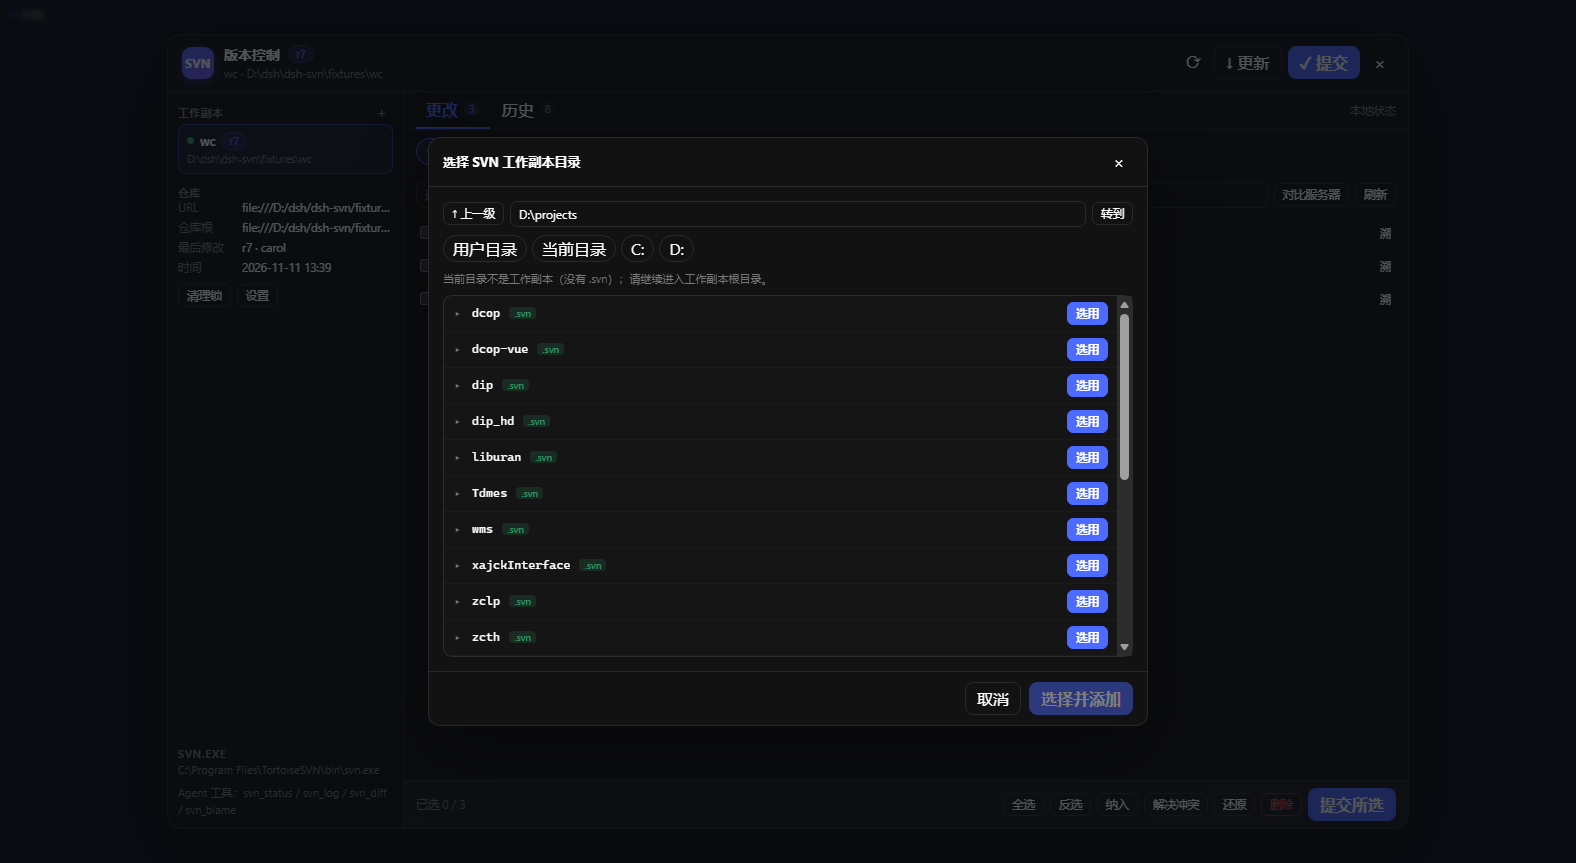
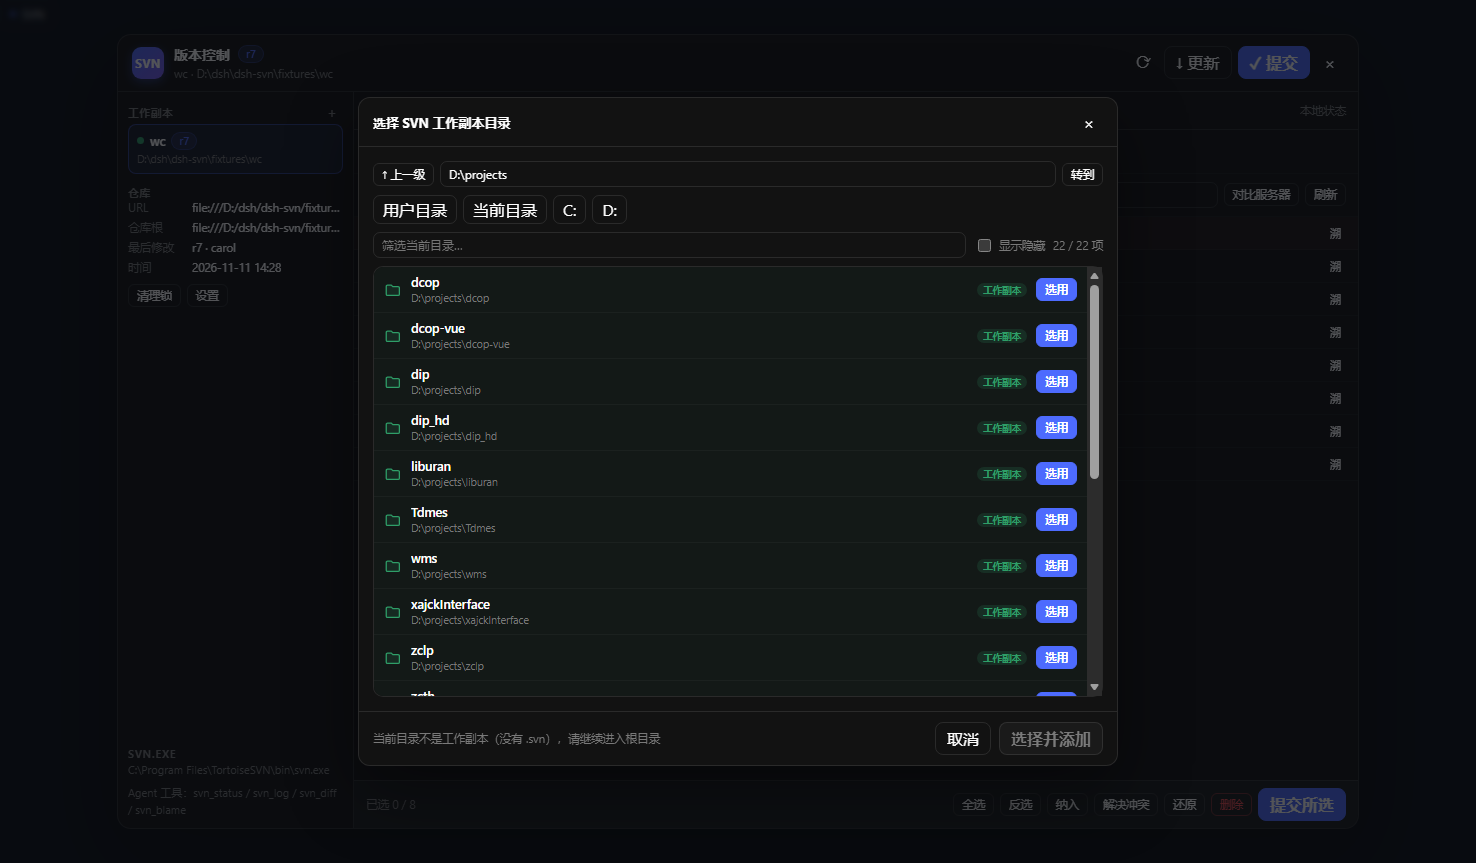
fix: polish directory picker layout
Add folder icons, search filter, hidden-folder toggle, fixed list height, clearer WC badges and footer status, and a proper disabled primary action.

diff --git a/client/client.js b/client/client.js
@@ -68,6 +68,7 @@ window.__ModuleLoader__.load({
 .svn-btn:disabled { opacity: .45; cursor: default; }
 .svn-btn.primary { background: var(--svn-accent); border-color: var(--svn-accent); color: #fff; font-weight: 600; }
 .svn-btn.primary:hover:not(:disabled) { background: #3f5bea; }
+.svn-btn.primary:disabled { background: var(--svn-soft); border-color: var(--svn-line); color: var(--svn-muted); opacity: 1; }
 .svn-btn.danger { color: #e5484d; border-color: rgba(229,72,77,.4); }
 .svn-btn.danger:hover:not(:disabled) { background: rgba(229,72,77,.12); }
 .svn-btn.small { padding: 3px 8px; font-size: 11.5px; border-radius: 6px; }
@@ -204,19 +205,30 @@ window.__ModuleLoader__.load({
 .svn-choice span { font-size: 11px; color: var(--svn-muted); }
 .svn-candidate { display: flex; align-items: center; gap: 8px; padding: 6px 8px; border: 1px solid var(--svn-soft); border-radius: 8px; }
 .svn-candidate .svn-path { font-size: 11px; }
-.svn-picker { display: flex; flex-direction: column; gap: 8px; min-height: 0; }
+.svn-picker { display: flex; flex-direction: column; gap: 8px; height: min(62vh, 540px); min-height: 0; }
 .svn-picker-path { display: flex; gap: 6px; align-items: center; }
-.svn-picker-roots { display: flex; gap: 5px; flex-wrap: wrap; }
-.svn-picker-list { border: 1px solid var(--svn-line); border-radius: 9px; max-height: 42vh; overflow: auto; background: rgba(127,127,127,.03); }
-.svn-picker-row { display: flex; align-items: center; gap: 7px; padding: 6px 9px; border-bottom: 1px solid var(--svn-soft); cursor: pointer; min-width: 0; }
+.svn-picker-roots { display: flex; gap: 6px; flex-wrap: wrap; }
+.svn-picker-root { display: inline-flex; align-items: center; gap: 5px; border: 1px solid var(--svn-line); background: transparent; border-radius: 7px; padding: 3px 9px; font-size: 11.5px; color: var(--svn-muted); cursor: pointer; }
+.svn-picker-root:hover { background: var(--svn-hover); color: CanvasText; }
+.svn-picker-tools { display: flex; gap: 8px; align-items: center; }
+.svn-picker-filter { flex: 1; min-width: 0; }
+.svn-picker-toggle { display: inline-flex; align-items: center; gap: 5px; font-size: 11.5px; color: var(--svn-muted); white-space: nowrap; cursor: pointer; user-select: none; }
+.svn-picker-toggle input { accent-color: var(--svn-accent); }
+.svn-picker-list { flex: 1; min-height: 0; overflow: auto; border: 1px solid var(--svn-line); border-radius: 10px; background: Canvas; }
+.svn-picker-row { display: flex; align-items: center; gap: 9px; padding: 7px 10px; border-bottom: 1px solid var(--svn-soft); cursor: pointer; min-width: 0; }
 .svn-picker-row:last-child { border-bottom: none; }
 .svn-picker-row:hover { background: var(--svn-hover); }
-.svn-picker-icon { color: var(--svn-muted); font-size: 11px; width: 12px; flex: none; }
-.svn-picker-row .svn-path { flex: 0 1 auto; font-size: 12px; color: CanvasText; }
-.svn-picker-wc { font-size: 9.5px; padding: 0 5px; border-radius: 4px; background: rgba(48,164,108,.16); color: #2f9e68; flex: none; font-weight: 600; margin-left: 2px; }
-.svn-picker-spacer { flex: 1; }
-.svn-picker-empty { padding: 24px 10px; text-align: center; color: var(--svn-muted); font-size: 12px; }
-.svn-picker-rootpath { color: var(--svn-muted); font-size: 11px; margin-left: 8px; overflow: hidden; text-overflow: ellipsis; white-space: nowrap; }
+.svn-picker-row.is-wc { background: rgba(48,164,108,.05); }
+.svn-folder-glyph { flex: none; }
+.svn-picker-main { flex: 1; min-width: 0; display: flex; flex-direction: column; gap: 1px; }
+.svn-picker-name { font-size: 12.5px; font-weight: 550; color: CanvasText; white-space: nowrap; overflow: hidden; text-overflow: ellipsis; }
+.svn-picker-sub { font-size: 10.5px; color: var(--svn-muted); white-space: nowrap; overflow: hidden; text-overflow: ellipsis; }
+.svn-picker-wc { font-size: 9.5px; padding: 1px 6px; border-radius: 999px; background: rgba(48,164,108,.16); color: #2f9e68; font-weight: 600; flex: none; }
+.svn-picker-chevron { color: var(--svn-muted); font-size: 15px; line-height: 1; flex: none; opacity: .7; }
+.svn-picker-empty { padding: 36px 10px; text-align: center; color: var(--svn-muted); font-size: 12px; }
+.svn-picker-status { font-size: 11.5px; color: var(--svn-muted); }
+.svn-picker-status.ok { color: #2f9e68; }
+.svn-picker-foot { display: flex; align-items: center; gap: 8px; width: 100%; }
 .svn-modal-head .svn-icon { background: transparent !important; border: none; }
 .svn-hbtn { display: inline-flex; align-items: center; gap: 6px; height: 26px; padding: 0 9px; border-radius: 7px; border: 1px solid var(--svn-line); background: transparent; cursor: pointer; font-size: 11.5px; color: inherit; }
 .svn-hbtn:hover { background: var(--svn-hover); }
@@ -1549,12 +1561,33 @@ window.__ModuleLoader__.load({
       )
     }
 
+    function FolderGlyph(props) {
+      const color = props.wc ? '#2f9e68' : '#d9a441'
+      return h('svg', {
+        className: 'svn-folder-glyph',
+        width: 18,
+        height: 18,
+        viewBox: '0 0 24 24',
+        fill: 'none',
+        stroke: color,
+        strokeWidth: 1.7,
+        strokeLinejoin: 'round',
+      },
+        h('path', {
+          d: 'M3 7.2A1.7 1.7 0 0 1 4.7 5.5h5.1l1.9 2h7.1A1.7 1.7 0 0 1 20.5 9.2v8.3a1.7 1.7 0 0 1-1.7 1.7H4.7A1.7 1.7 0 0 1 3 17.5V7.2Z',
+          fill: props.wc ? 'rgba(48,164,108,.13)' : 'rgba(217,164,65,.13)',
+        }),
+      )
+    }
+
     function DirectoryPicker(props) {
       const [current, setCurrent] = useState(props.initial || '')
       const [data, setData] = useState(null)
       const [loading, setLoading] = useState(false)
       const [error, setError] = useState('')
       const [jump, setJump] = useState(props.initial || '')
+      const [filter, setFilter] = useState('')
+      const [showHidden, setShowHidden] = useState(false)
       const seq = useRef(0)
 
       const load = useCallback(async (target) => {
@@ -1568,6 +1601,7 @@ window.__ModuleLoader__.load({
           setData(result)
           setCurrent(result.current || '')
           setJump(result.current || '')
+          setFilter('')
           if (result.current) writeStorage(LAST_DIR_STORAGE, result.current)
         } catch (err) {
           if (seq.current === id) setError(String((err && err.message) || err))
@@ -1578,14 +1612,51 @@ window.__ModuleLoader__.load({
 
       useEffect(() => { load(props.initial || readStorage(LAST_DIR_STORAGE) || '') }, [load, props.initial])
 
+      const roots = (data && data.roots) || []
+      const entries = (data && data.entries) || []
+      const keyword = filter.trim().toLowerCase()
+      const visible = entries.filter((entry) => {
+        if (!showHidden && entry.name.startsWith('.')) return false
+        if (keyword && !entry.name.toLowerCase().includes(keyword)) return false
+        return true
+      })
       const canPick = !!(data && data.current)
       const isWc = !!(data && data.isWc)
 
+      const row = (item, asRoot) => h('div', {
+        key: (asRoot ? 'root:' : 'dir:') + item.path,
+        className: 'svn-picker-row' + (item.isWc ? ' is-wc' : ''),
+        title: item.path,
+        onClick: () => load(item.path),
+      },
+        h(FolderGlyph, { wc: !!item.isWc }),
+        h('div', { className: 'svn-picker-main' },
+          h('div', { className: 'svn-picker-name' }, item.name),
+          asRoot || item.isWc ? h('div', { className: 'svn-picker-sub' }, item.path) : null,
+        ),
+        item.isWc ? h('span', { className: 'svn-picker-wc' }, '工作副本') : null,
+        item.isWc
+          ? h('button', {
+              type: 'button',
+              className: 'svn-btn small primary',
+              onClick: (event) => { event.stopPropagation(); props.onPick(item.path, true) },
+            }, '选用')
+          : h('span', { className: 'svn-picker-chevron' }, '›'),
+      )
+
+      const status = !canPick
+        ? '请选择一个磁盘或常用目录'
+        : isWc
+          ? '✓ 当前目录是工作副本，可直接添加'
+          : '当前目录不是工作副本（没有 .svn），请继续进入根目录'
+
       return h(Modal, {
         title: '选择 SVN 工作副本目录',
-        width: 720,
+        width: 760,
         onClose: props.onClose,
-        footer: h(React.Fragment, null,
+        footer: h('div', { className: 'svn-picker-foot' },
+          h('span', { className: 'svn-picker-status' + (isWc ? ' ok' : '') }, status),
+          h('div', { className: 'svn-footer-gap' }),
           h('button', { type: 'button', className: 'svn-btn', onClick: props.onClose }, '取消'),
           h('button', {
             type: 'button',
@@ -1613,20 +1684,30 @@ window.__ModuleLoader__.load({
             }),
             h('button', { type: 'button', className: 'svn-btn small', onClick: () => load(jump.trim()), disabled: loading }, '转到'),
           ),
-          data && data.roots && data.roots.length ? h('div', { className: 'svn-picker-roots' },
-            data.roots.map((root) => h('button', {
+          roots.length ? h('div', { className: 'svn-picker-roots' },
+            roots.map((root) => h('button', {
               key: root.path,
               type: 'button',
-              className: 'svn-chip',
+              className: 'svn-picker-root',
               title: root.path,
               onClick: () => load(root.path),
             }, root.name)),
           ) : null,
-          data && data.current
-            ? h('div', { className: 'svn-hint' }, isWc
-              ? '✓ 当前目录是 SVN 工作副本，可直接添加。'
-              : '当前目录不是工作副本（没有 .svn）；请继续进入工作副本根目录。')
-            : h('div', { className: 'svn-hint' }, '选择一个磁盘或常用目录开始；只列出文件夹，不读取文件内容。'),
+          h('div', { className: 'svn-picker-tools' },
+            h('input', {
+              className: 'svn-input svn-picker-filter',
+              placeholder: '筛选当前目录…',
+              value: filter,
+              onChange: (event) => setFilter(event.target.value),
+            }),
+            h('label', { className: 'svn-picker-toggle' },
+              h('input', { type: 'checkbox', checked: showHidden, onChange: (event) => setShowHidden(event.target.checked) }),
+              '显示隐藏',
+            ),
+            h('span', { className: 'svn-picker-status' },
+              data ? (data.atRoot ? roots.length + ' 个位置' : visible.length + ' / ' + entries.length + ' 项') : '',
+            ),
+          ),
           error ? h('div', { className: 'svn-errorbox', style: { margin: 0 } },
             h('span', null, error),
             h('div', { style: { marginLeft: 'auto', display: 'flex', gap: 4 } },
@@ -1634,37 +1715,12 @@ window.__ModuleLoader__.load({
               h('button', { type: 'button', className: 'svn-btn small', onClick: () => load('') }, '起点'),
             ),
           ) : null,
-          loading ? h('div', { className: 'svn-loading', style: { flex: 'none', padding: 18 } }, h(Spinner), '读取目录…') : null,
+          loading ? h('div', { className: 'svn-loading', style: { flex: 'none', padding: 24 } }, h(Spinner), '读取目录…') : null,
           !loading && !error ? h('div', { className: 'svn-picker-list' },
-            data && data.atRoot ? data.roots.map((root) => h('div', {
-              key: root.path,
-              className: 'svn-picker-row',
-              title: root.path,
-              onClick: () => load(root.path),
-            },
-              h('span', { className: 'svn-picker-icon' }, '▸'),
-              h('span', { className: 'svn-path' }, root.name),
-              h('span', { className: 'svn-picker-rootpath' }, root.path),
-            )) :
-            data && data.entries.length === 0 ? h('div', { className: 'svn-picker-empty' }, '这个目录下没有子目录') :
-            data ? data.entries.map((entry) => h('div', {
-              key: entry.path,
-              className: 'svn-picker-row',
-              title: entry.path,
-              onClick: () => load(entry.path),
-            },
-              h('span', { className: 'svn-picker-icon' }, '▸'),
-              h('span', { className: 'svn-path' }, entry.name),
-              entry.isWc ? h('span', { className: 'svn-picker-wc' }, '.svn') : null,
-              h('span', { className: 'svn-picker-spacer' }),
-              entry.isWc ? h('button', {
-                type: 'button',
-                className: 'svn-btn small primary',
-                onClick: (event) => { event.stopPropagation(); props.onPick(entry.path, true) },
-              }, '选用') : null,
-            )) : null,
+            data && data.atRoot ? roots.map((root) => row(root, true)) :
+            visible.length === 0 ? h('div', { className: 'svn-picker-empty' }, keyword ? '没有匹配的文件夹' : '这个目录下没有子目录') :
+            visible.map((entry) => row(entry, false)),
           ) : null,
-          data && data.truncated ? h('div', { className: 'svn-hint' }, '子目录过多，只显示前 800 个；可直接在上方输入路径跳转。') : null,
         ),
       )
     }
